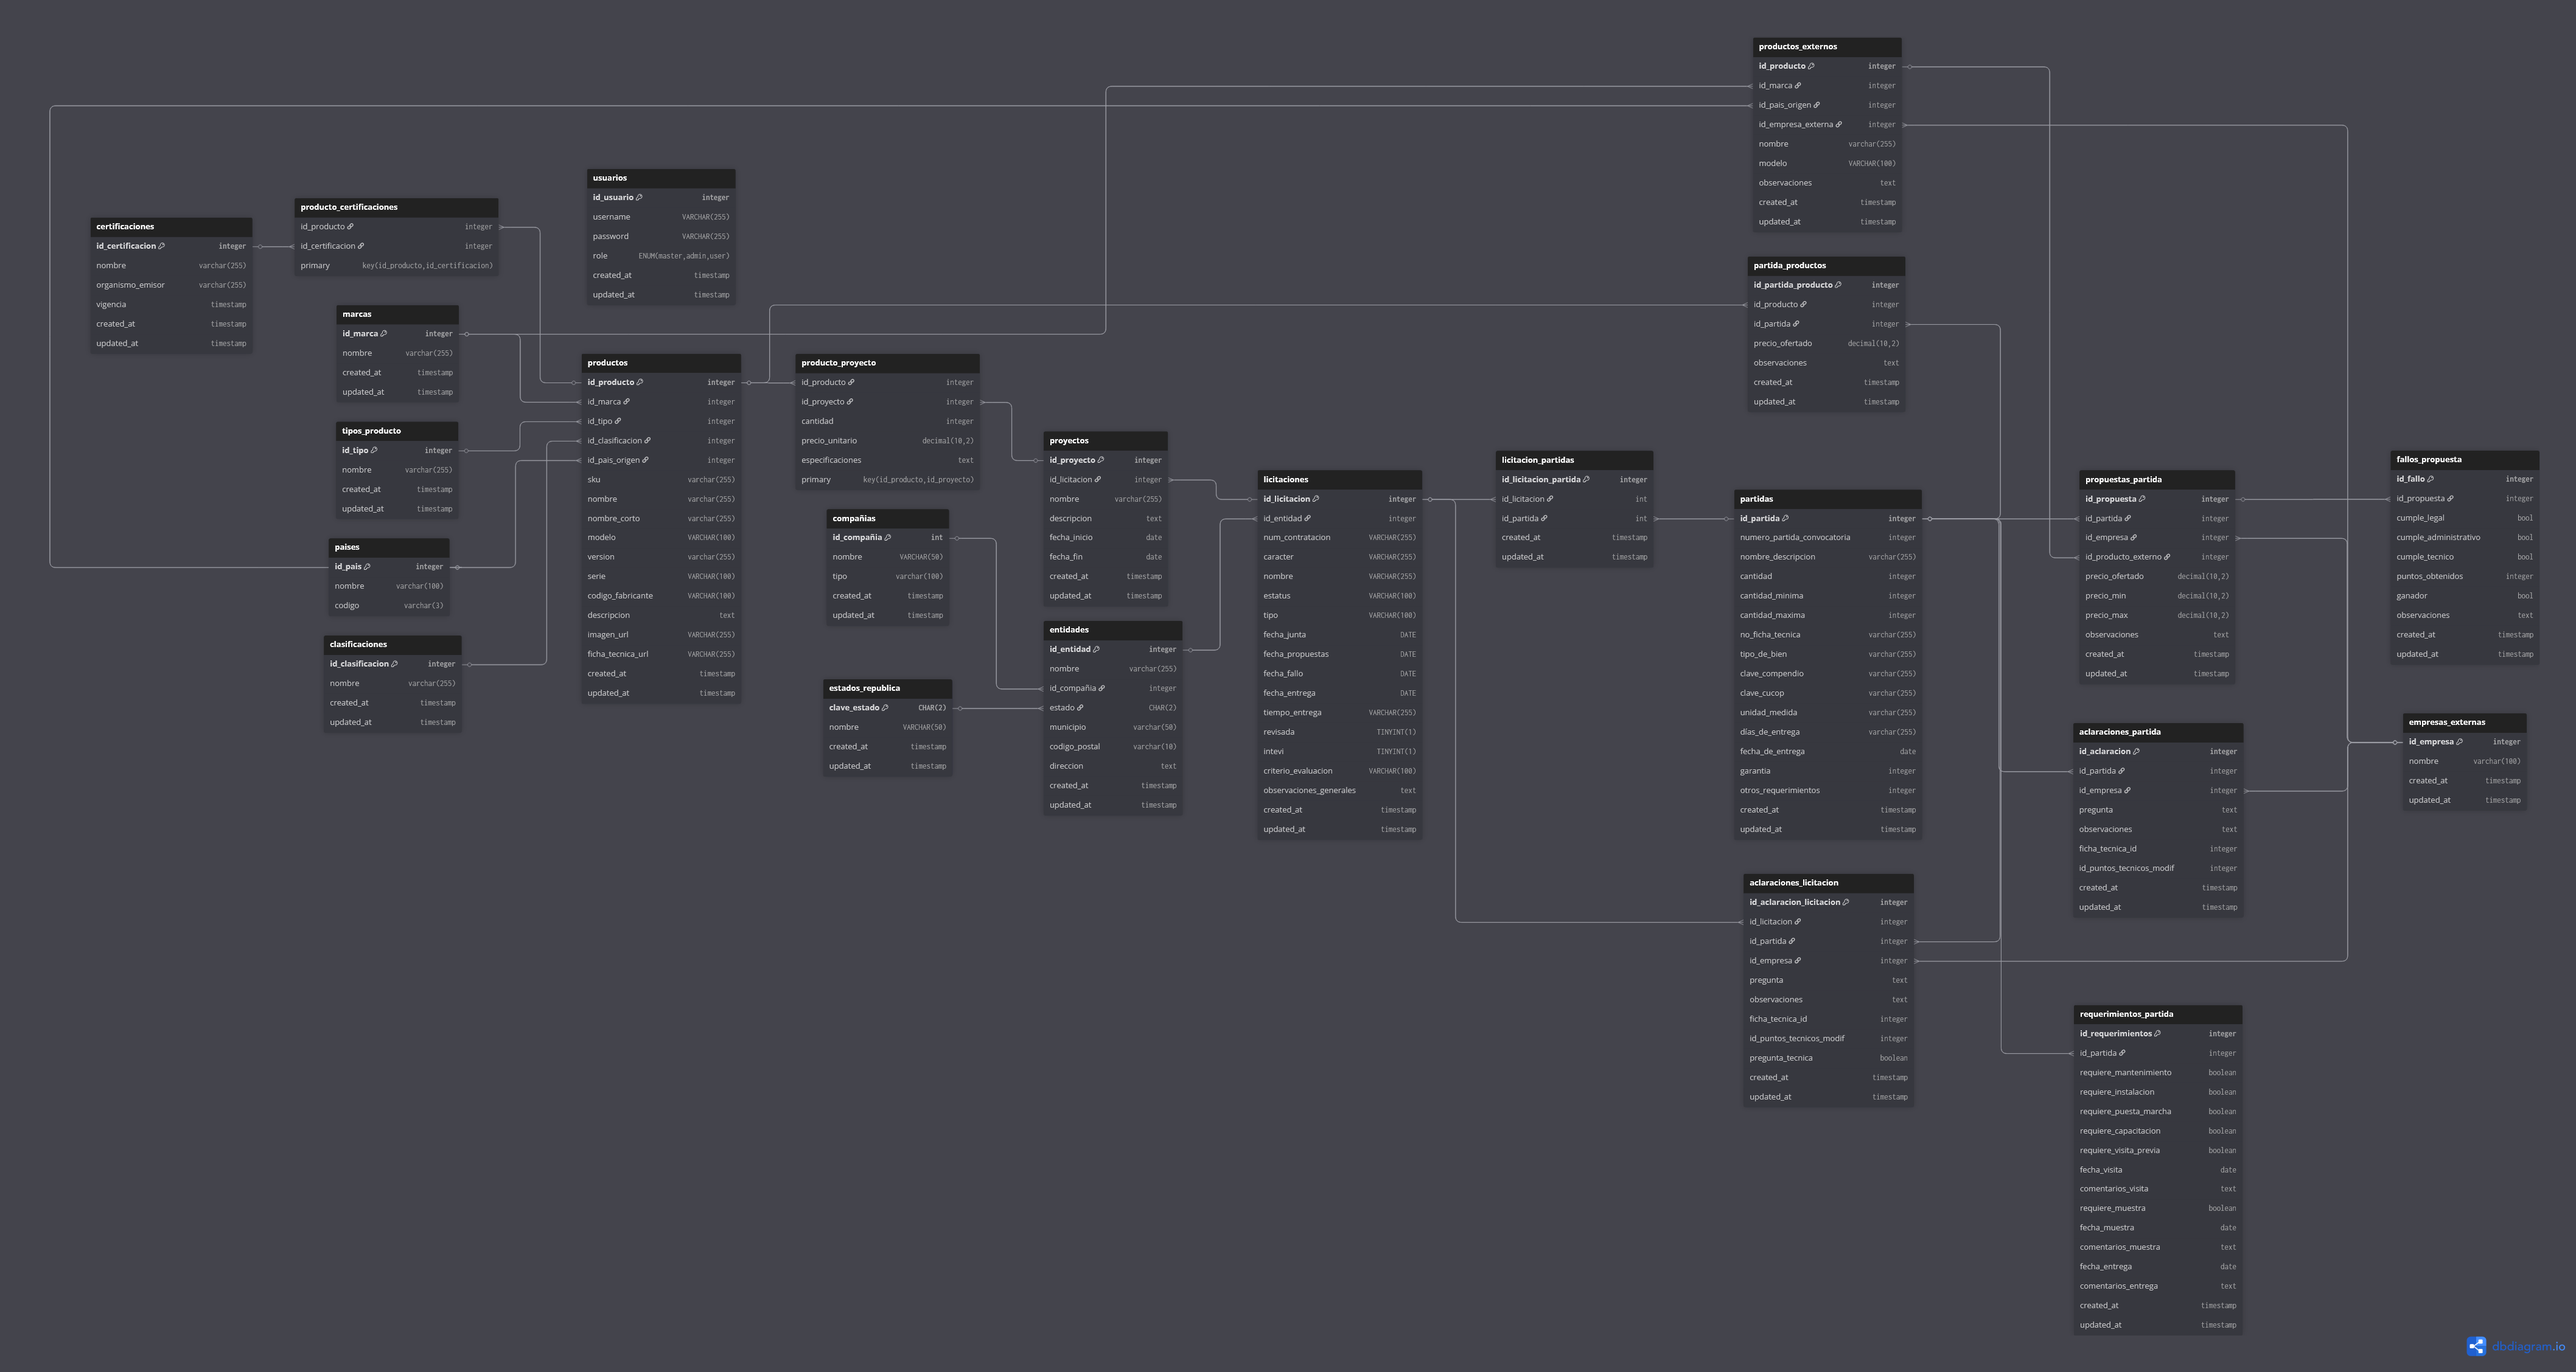
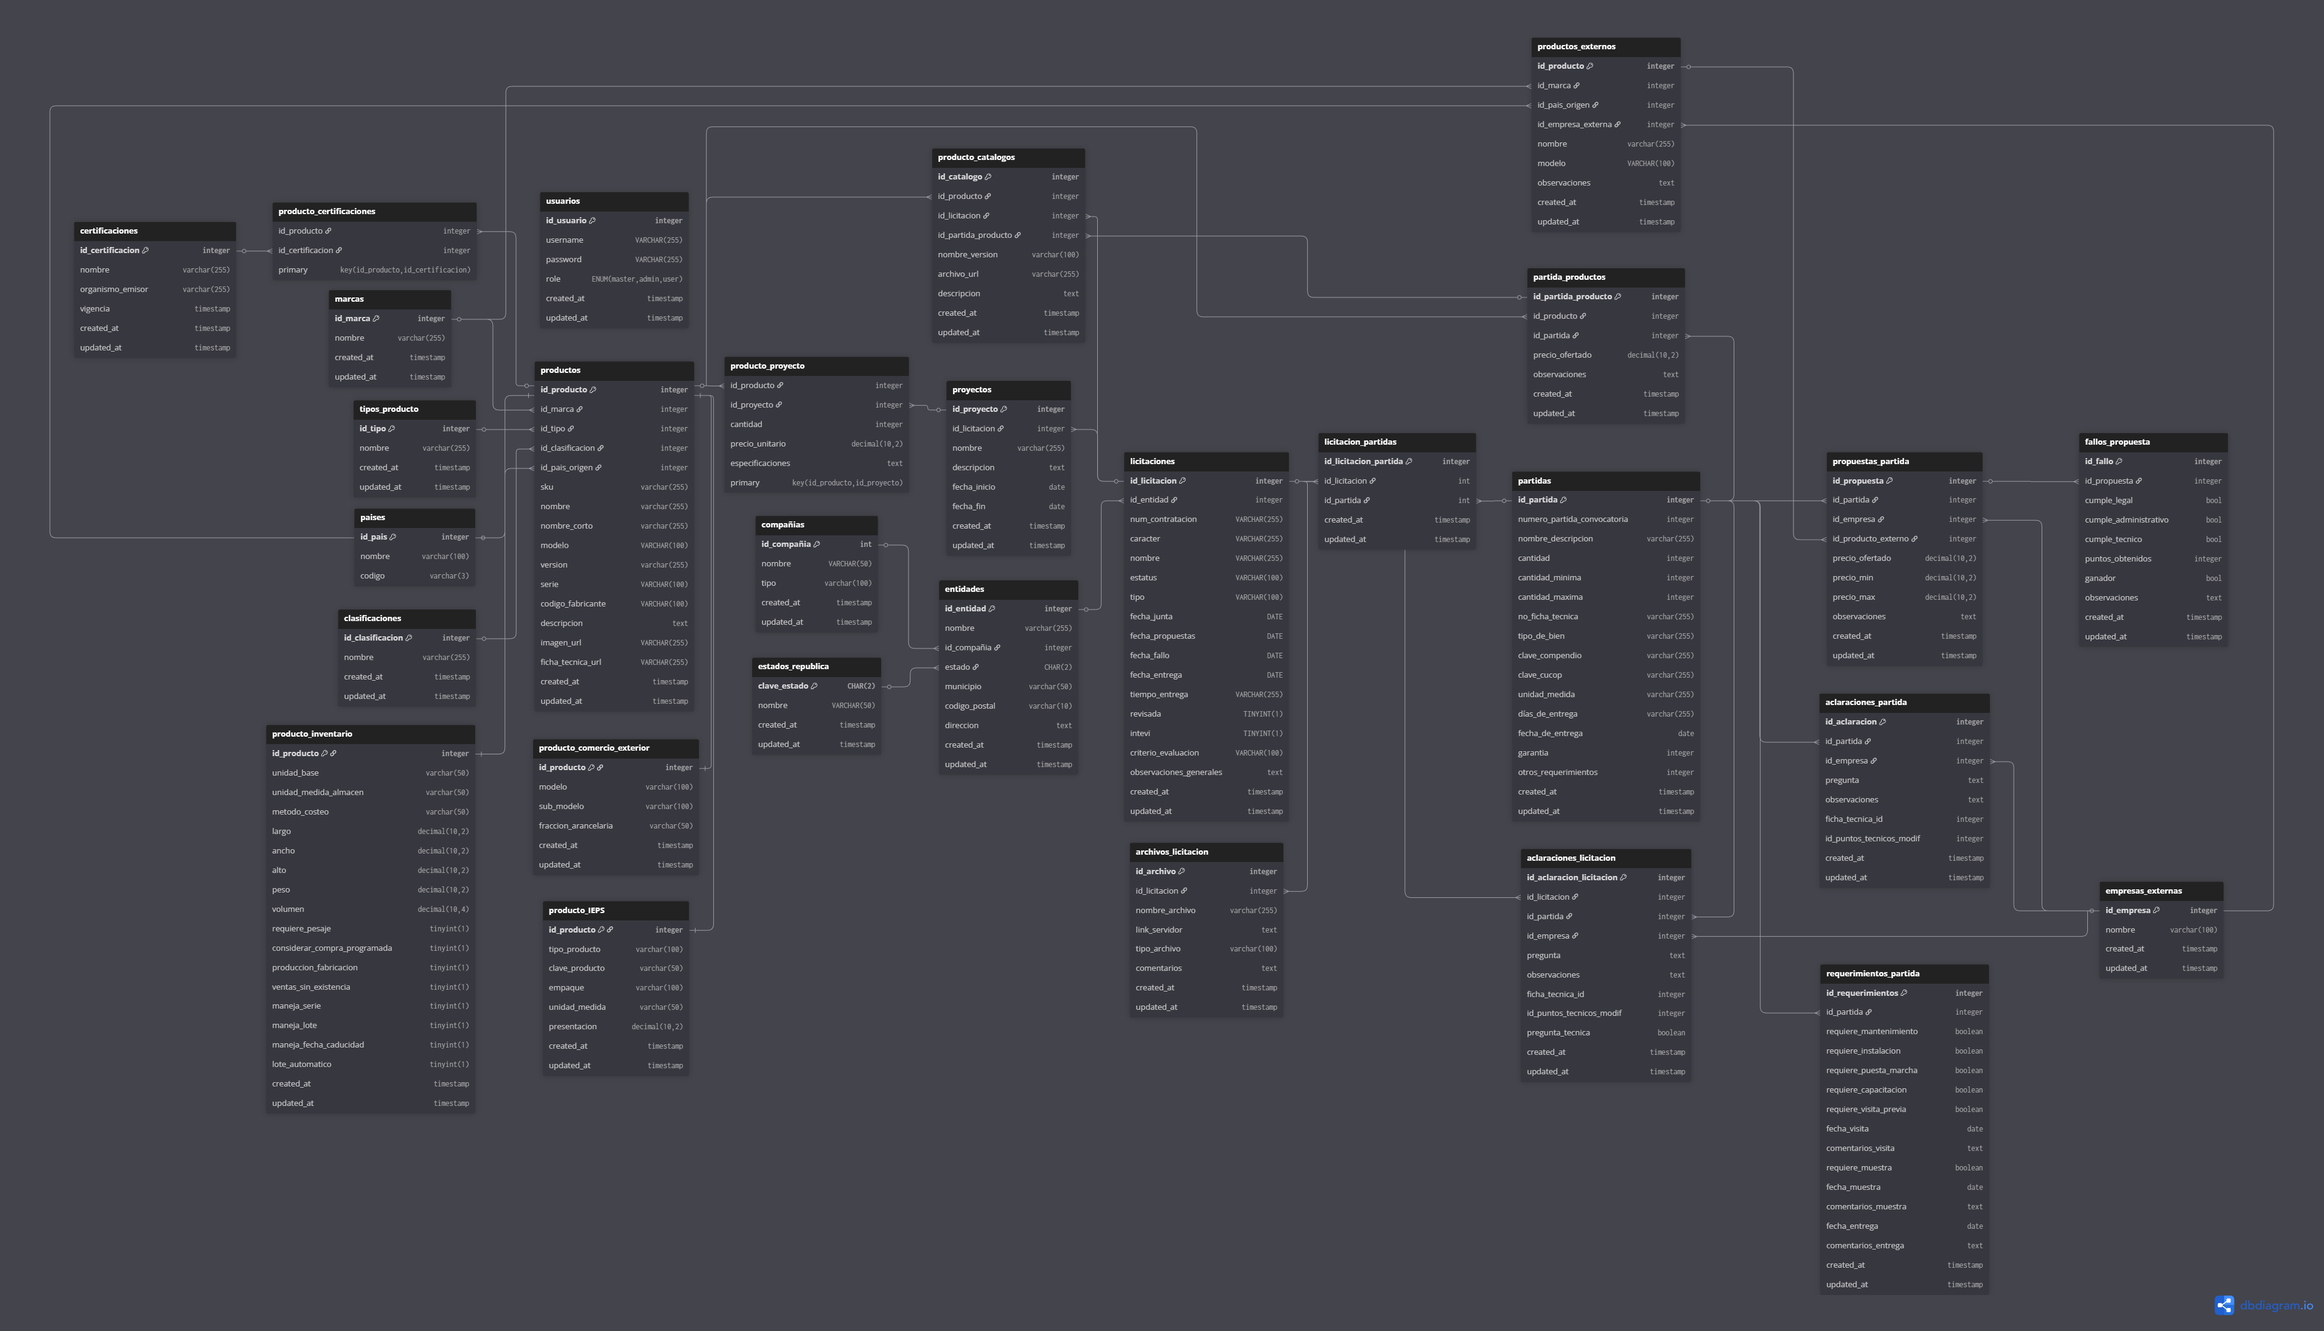
Update README.md

diff --git a/README.md b/README.md
@@ -5,58 +5,50 @@
 ![Bootstrap](https://img.shields.io/badge/Bootstrap-5.1.3-purple?logo=bootstrap)
 ![FontAwesome](https://img.shields.io/badge/FontAwesome-6.5.1-black?logo=fontawesome)
 ![Badge en Desarrollo](https://img.shields.io/badge/STATUS-SEGUNDA%20VERSION-green)
-![Badge Licencia](https://img.shields.io/badge/Licencia-MIT-DarkGreen)
+![Badge Licencia](https://img.shields.io/badge/Licencia-PRIVADA-red)
 
-Este proyecto es un sistema integral para administrar **licitaciones públicas**, con un enfoque especial en la organización de productos de inventario, proyectos asociados y procesos licitatorios complejos como aclaraciones, propuestas, fallos y requerimientos técnicos.
+Este proyecto es un sistema integral para administrar **licitaciones públicas**, con un enfoque especial en la organización de productos médicos, proyectos asociados y procesos licitatorios complejos.
 
 ---
 
 ## 📌 ¿Qué es una licitación?
 
-Una **licitación** es un proceso mediante el cual una entidad pública o privada solicita formalmente la adquisición de bienes o servicios, seleccionando al proveedor mediante una convocatoria competitiva. En México, estos procesos a menudo se consultan a través de plataformas como ComprasMX o se rigen por normativas específicas para asegurar transparencia y eficiencia. Este sistema permite controlar y documentar cada etapa de ese proceso.
+Una **licitación** es un proceso mediante el cual una entidad pública o privada solicita formalmente la adquisición de bienes o servicios, seleccionando al proveedor mediante una convocatoria competitiva. Este sistema permite a **INTEVI** controlar y documentar cada etapa del proceso en México.
 
 ---
 
-## 🧩 Módulos del sistema
+## 🧩 Módulos del sistema 
 
-### 🗂 Inventario
+### 🗂 Inventario Extendido (Core)
+El CRUD de productos ahora incluye una arquitectura de tablas relacionadas 1:1 para datos especializados:
+- **Información Básica:** SKU, modelo, serie y especificaciones técnicas.
+- **Logística e Inventario:** Gestión de unidades de medida, pesos, volúmenes, métodos de costeo y control de lotes/caducidades.
+- **Contabilidad e Impuestos:** Configuración de IEPS, claves de producto, empaques y presentaciones.
+- **Comercio Exterior:** Modelado de fracciones arancelarias y factores de conversión para equipos importados.
 
-CRUD completo de productos con la siguiente estructura:
+### 📂 Gestión Documental (Catálogos y Versiones)
+Módulo optimizado para el control de archivos técnicos:
+- **Catálogos Generales:** Documentos de uso global para el equipo de ventas.
+- **Catálogos por Licitación:** Vinculación quirúrgica de documentos a una **Partida** específica de una licitación.
+- **CRUD Documental:** Interfaz para subir, editar, visualizar (PDF) y eliminar versiones con trazabilidad por `updated_at`.
 
-- Información básica: nombre, modelo, versión, SKU, etc.
-- Clasificación y origen: marca, país, tipo, clasificación.
-- Documentación: ficha técnica, imagen, código del fabricante.
-- Certificaciones: asociadas por medio de tabla intermedia.
-
-### 🏗 Proyectos
-
-Este módulo agrupa las licitaciones ganadas o proyectos privados en los que se está trabajando actualmente. Cada proyecto vincula productos específicos con sus cantidades, precios unitarios y especificaciones técnicas para una licitación o proyecto concreto.
-
-### 📑 Licitaciones
-
-Cada licitación contiene:
-
-- Datos generales: nombre, tipo, estatus, fechas clave.
-- **Partidas**: núcleo del proceso, cada una representa una solicitud de equipo médico.
-  - Productos relacionados de INTEVI
-  - Requerimientos técnicos (instalación, capacitación, etc.)
-  - Propuestas de productos por empresa externa
-  - Fallos con evaluación técnica, administrativa y legal
+### 🏗 Proyectos y Licitaciones
+- **Proyectos:** Vinculación de productos ganados con cantidades y precios unitarios.
+- **Licitaciones:** Gestión de fechas clave (junta, propuestas, fallo) integradas al calendario.
+- **Archivos de Licitación:** Repositorio centralizado para Bases, Anexos y Juntas de Aclaraciones mediante links externos.
 
 ### 🔐 Autenticación
-
 Permite la creación y gestión de usuarios con nombre, correo y contraseña. Las contraseñas se encriptan utilizando bcrypt. El acceso al sistema requiere una cuenta. Se contempla la implementación de niveles de usuario con restricciones futuras.
 
 ### 🗓 Calendario
-
 Integrado con FullCalendar JS, este módulo muestra las fechas clave de las licitaciones. Ofrece vistas anual, mensual y semanal, alertando sobre la proximidad de eventos y el tiempo transcurrido desde ellos, con la posibiliad de editar las licitaciones y acceder a las mismas, tiene la intención de ser la vista principal de administración.
 
 ### 📦 Catálogo de Productos
-
 Un módulo dedicado a la visualización de los productos de INTEVI, permitiendo un acceso rápido a sus datos, incluyendo fichas técnicas y otra documentación relevante. Cuenta con filtros para una búsqueda eficiente de productos.
 
-### ⚙ Menu de Opciones
 
+
+### ⚙ Menu de Opciones
 Este es el centro de administración de catálogos y entidades del sistema. Desde aquí se gestionan todos los datos maestros necesarios para el funcionamiento de la aplicación:
 - Datos de Referencia: Permite la gestión de catálogos auxiliares como:
   - Marcas
@@ -69,32 +61,24 @@ Este es el centro de administración de catálogos y entidades del sistema. Desd
 - Entidades: Administración de las instituciones (hospitales, clínicas, etc.) a las que se les da servicio.
 - Usuarios: Gestión de los perfiles y credenciales de los usuarios que pueden acceder al sistema.
 
-Nota: Las opciones para administrar "Productos" (el inventario interno) y "Proyectos" desde este menú están planificadas y visibles, pero su funcionalidad aún no ha sido implementada.
+---
 
-## 🛠 Tecnologías utilizadas
+## 🛠 Tecnologías utilizadas
 
 ### Backend
-
 - **Lenguaje:** Go 1.24.2
-- **Frameworks y librerías:**
-  - `github.com/go-chi/chi/v5` – Enrutador ligero
-  - `github.com/alexedwards/scs/v2` – Manejo de sesiones
-  - `github.com/justinas/nosurf` – Protección CSRF
-  - `github.com/go-sql-driver/mysql` – Driver MySQL
-  - `golang.org/x/crypto/bcrypt` – Para encriptación de contraseñas
+- **Frameworks:** `chi/v5` (Router), `scs/v2` (Sesiones), `nosurf` (CSRF), `bcrypt` (Seguridad).
 
 ### Base de Datos
-
 - **Motor:** MySQL 8.0.41
-- Diseño relacional con claves foráneas, timestamps y tablas intermedias.
+- **Diseño:** Relacional normalizado con soporte para nulos en relaciones opcionales.
 
 ### Frontend
-
 - **Bootstrap 5.1.3** – Framework CSS
 - **FontAwesome 6** – Íconos
 - **FullCalendar@6.1.7** – Librería JavaScript para calendario
 - HTML renderizado mediante plantillas Go (`html/template`)
-
+  
 ---
 
 ## 🧱 Modelo de datos (estructura general)
@@ -132,26 +116,36 @@ Estas tablas documentan la interacción de las empresas con cada partida:
 
 ---
 
-## 📷 Documentación
+## 🧱 Modelo de datos extendido
 
-Video explicativo 20 mayo 2025:
-https://www.youtube.com/watch?v=8oavojJYFSY&t=1s
-Video Teaser App Primera versión 4 de Octubre de 2025:
-https://youtu.be/PfJXXYc0cos
+La base de datos se ha estructurado para soportar el crecimiento administrativo de **INTEVI**:
+
+- **`producto_catalogos`**: Almacena versiones de folletos técnicos vinculados opcionalmente a `licitaciones` y `partida_productos`.
+- **`producto_inventario`**: Atributos logísticos detallados (largo, ancho, peso, manejo de serie/lote).
+- **`producto_IEPS`**: Datos fiscales para facturación y costos.
+- **`producto_comercio_exterior`**: Información para procesos de aduana e importación.
+- **`archivos_licitacion`**: Repositorio de links para la documentación oficial de cada convocatoria.
+
+---
+
+## 📷 Documentación y Vídeos
+
+- **Video explicativo (20 mayo 2025):** [Ver en YouTube](https://www.youtube.com/watch?v=8oavojJYFSY&t=1s)
+- **Video Teaser App (4 de Octubre de 2025):** [Ver en YouTube](https://youtu.be/PfJXXYc0cos)
 
 Estructura base de datos:
-<img src="static\images\BD.png" alt="">
+<img src="static/images/BD.png" alt="Esquema BD Intevi">
 
 ---
 
 ## 📄 Licencia
 
-Proyecto privado de uso interno para fines administrativos. No distribuible sin autorización.
+**PROYECTO PRIVADO - USO INTERNO ADMINISTRATIVO.**
+Este software es propiedad exclusiva de **INTEVI / Mednodes**. Queda estrictamente prohibida su reproducción, distribución o modificación sin autorización expresa.
 
 ---
 
 ## ✍ Autor
-
 | [<img src="https://avatars.githubusercontent.com/u/187525995?s=400&u=47c70aa412cfa1fb40227e1effd7f7115d3190d3&v=4" width=115><br><sub>**Jose Luis Valencia** Ingeniero Biomedico</sub>](https://github.com/Cogito-ergo-sum25) |
 | :---: |
 
